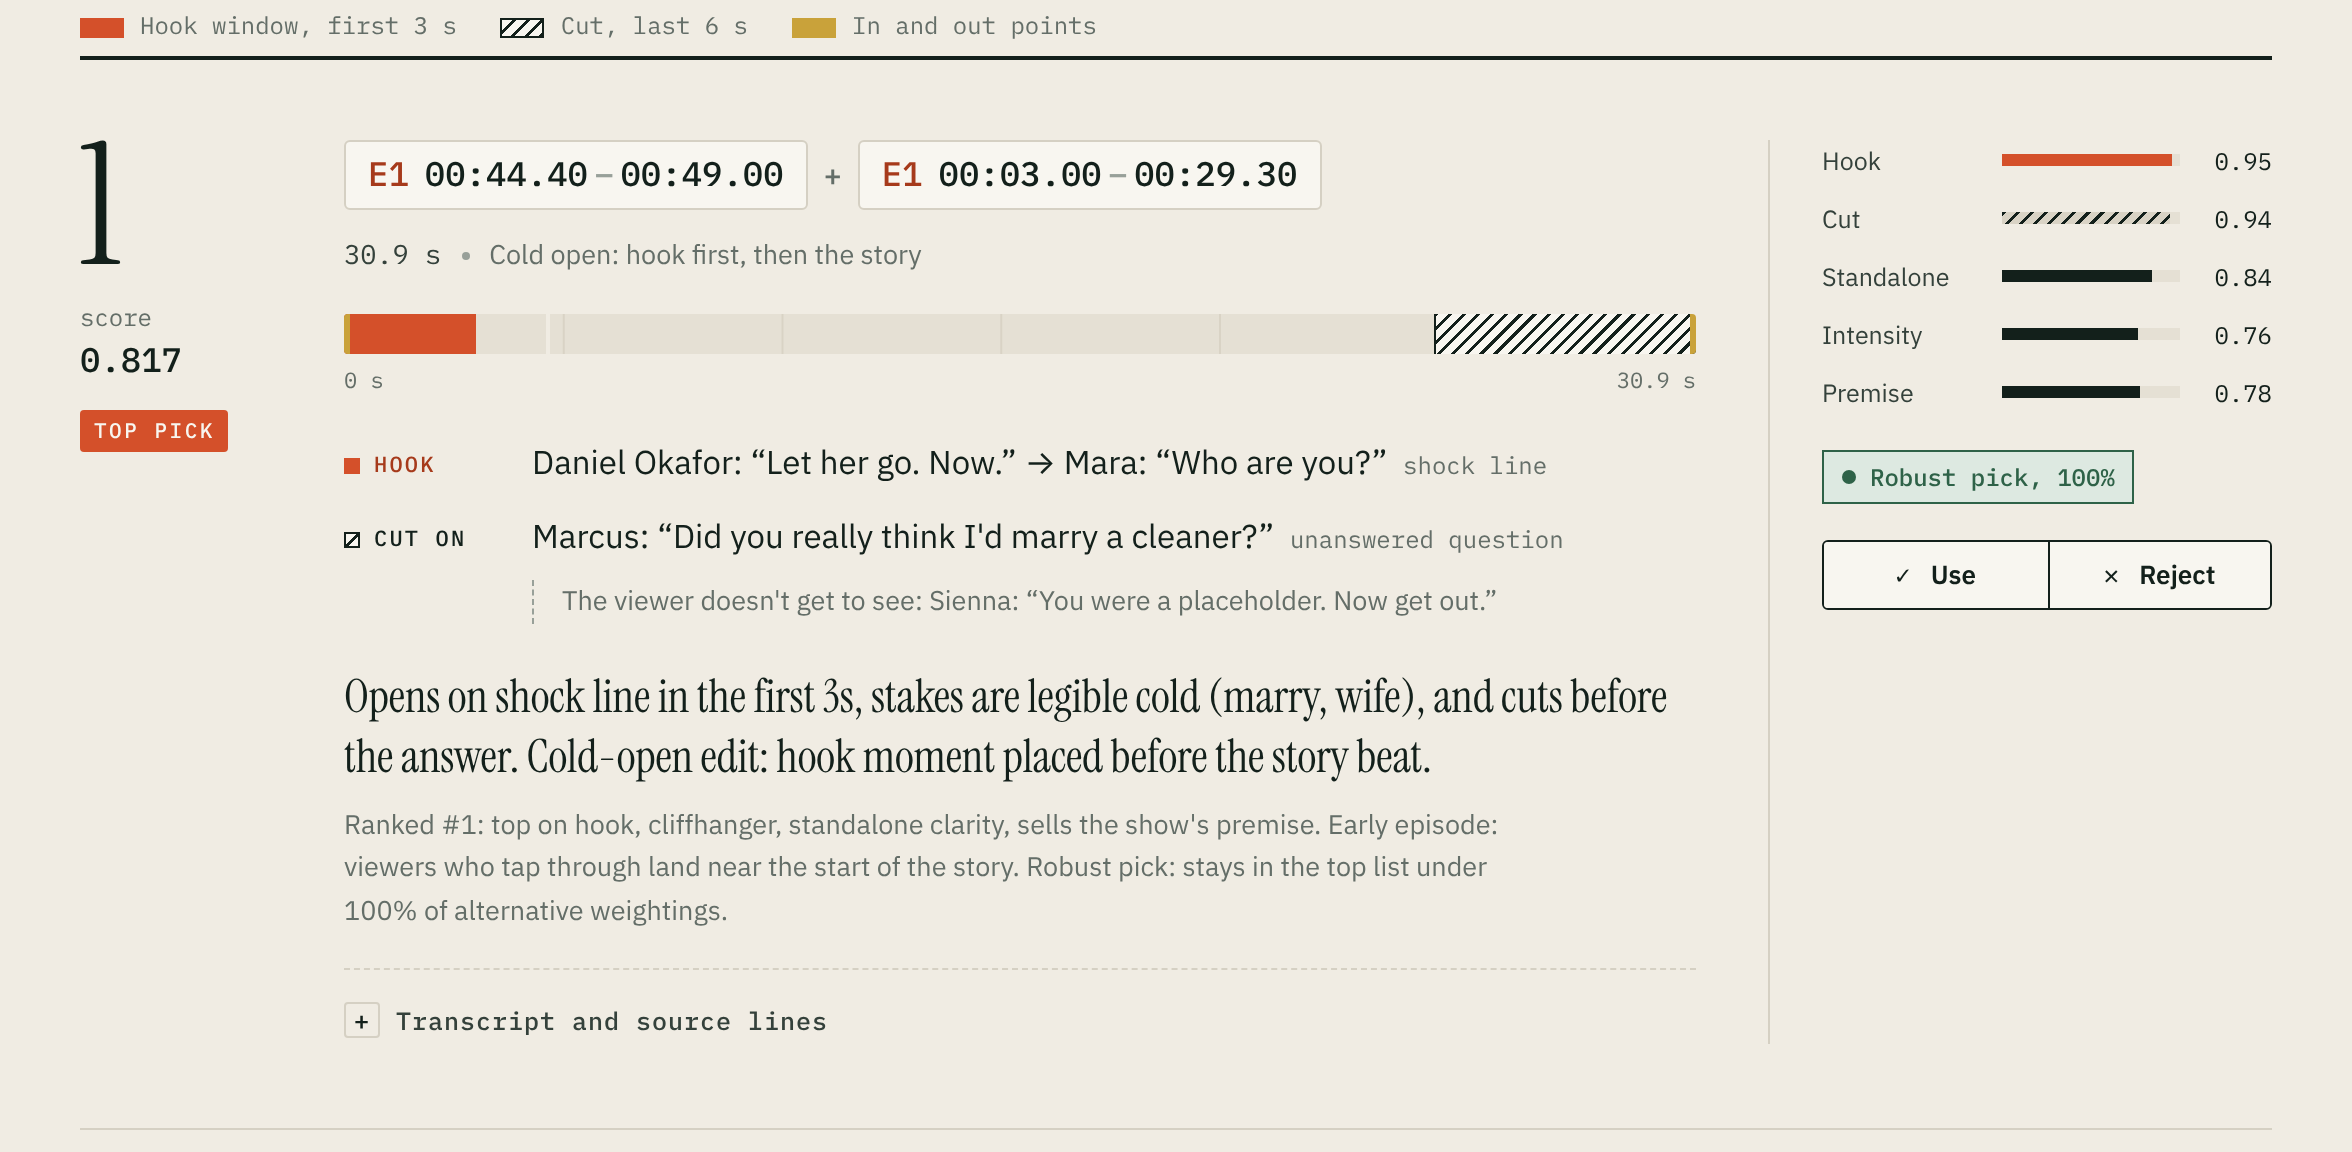
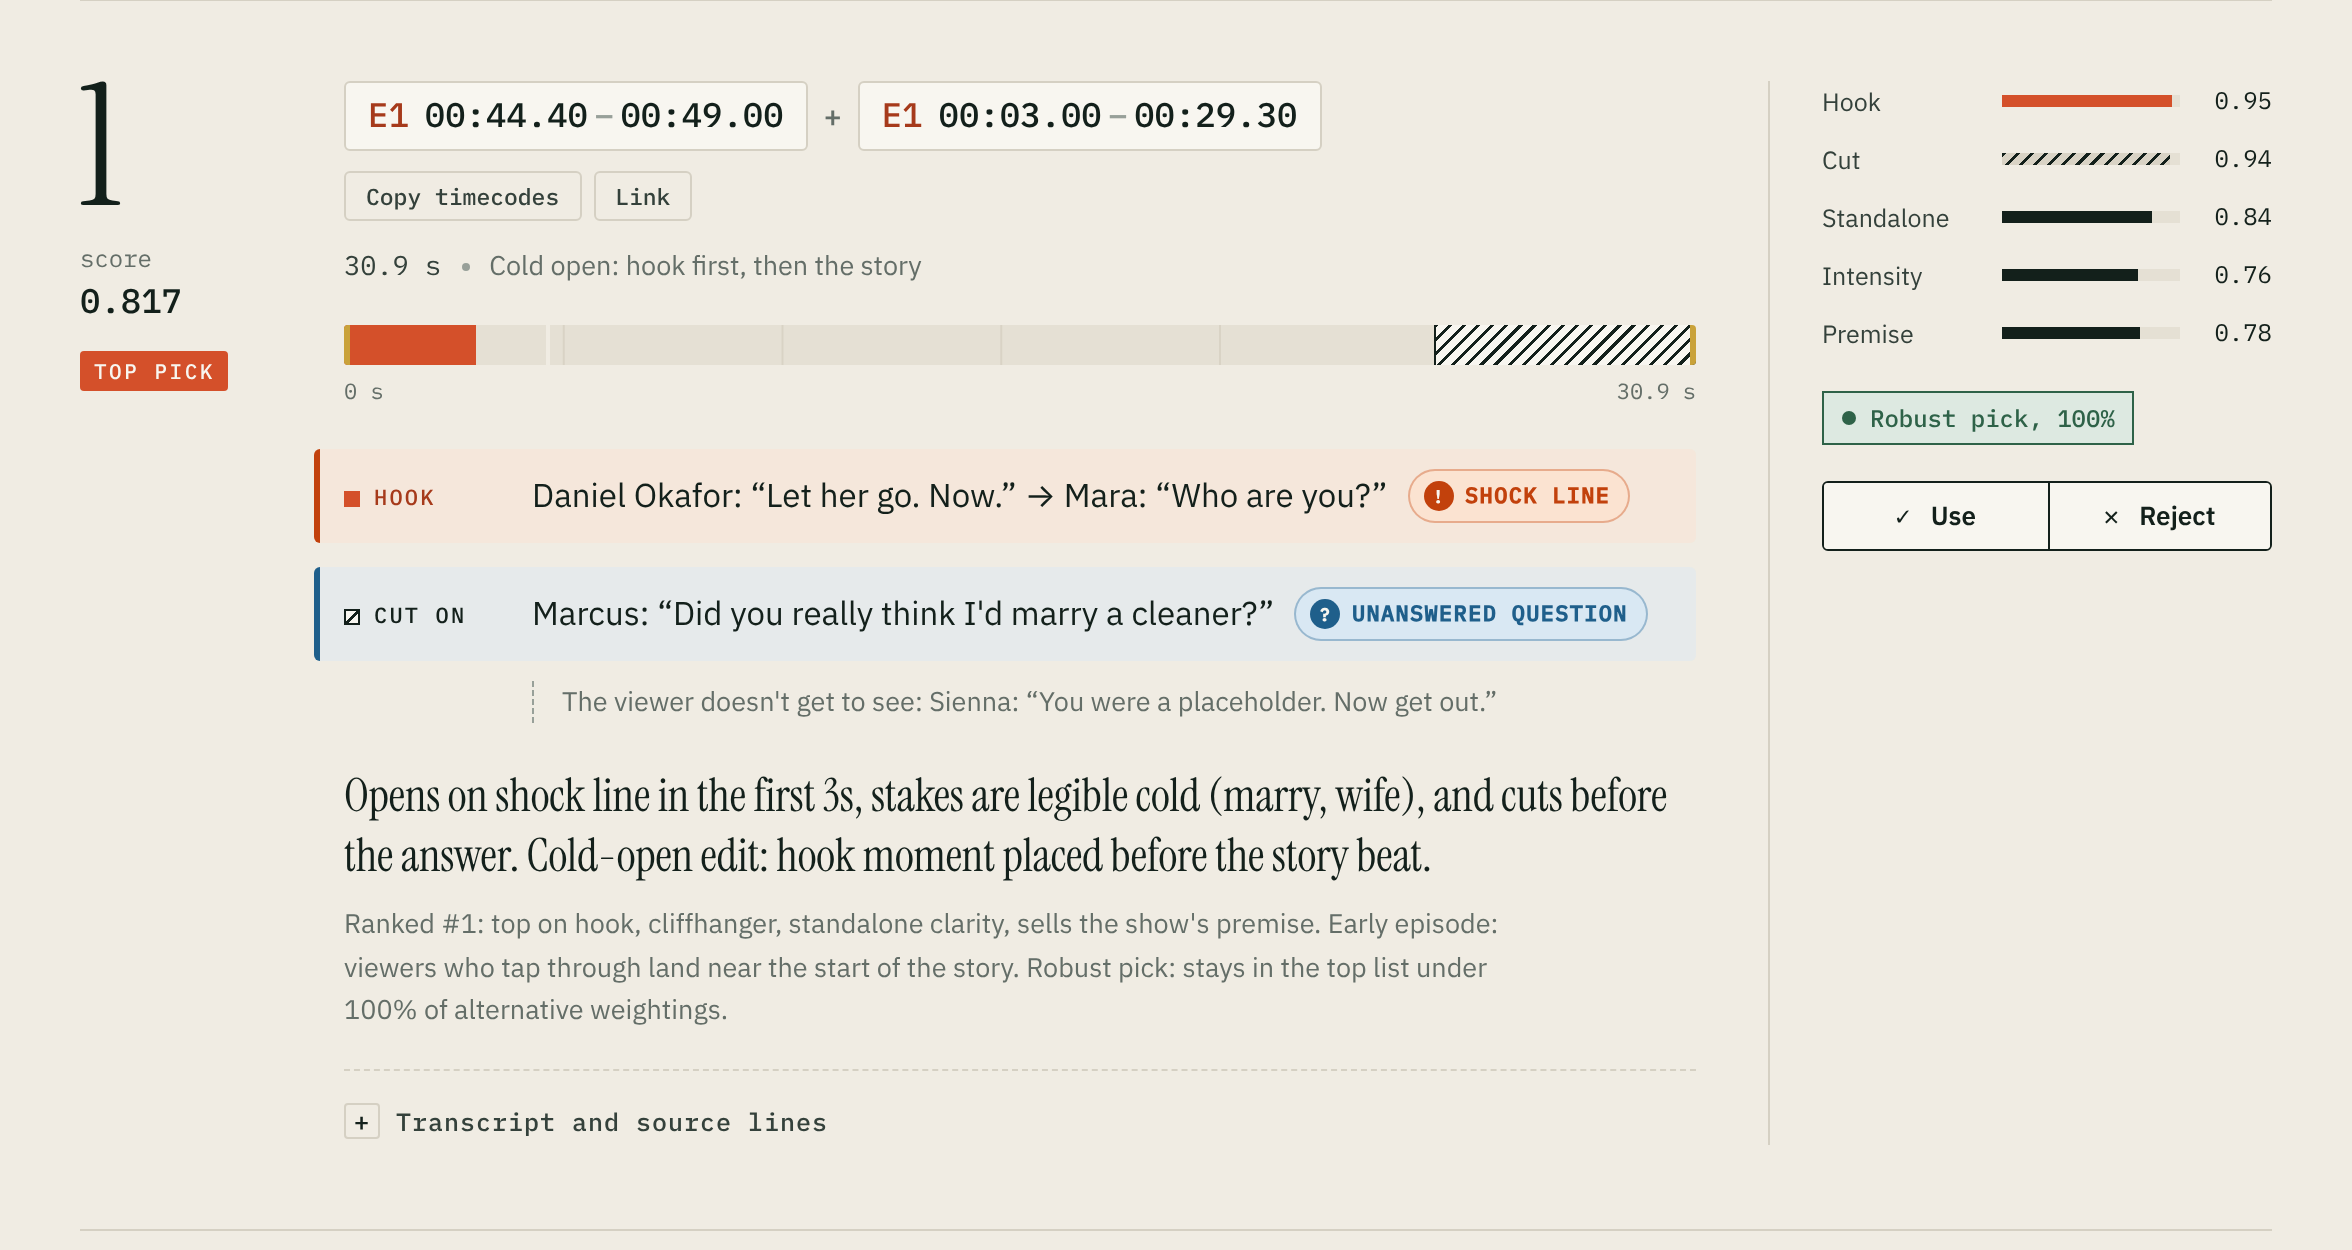
Update screenshots for the current interface

diff --git a/README.md b/README.md
@@ -23,18 +23,22 @@ Exports are available in JSON, CSV, Markdown, and **CMX3600 EDLs** for Premiere 
 
 ## Screenshots
 
-**Results page.** Show summary, exports and the ranked picks.
+**Two sample shows.** Upload your own screenplays, or open either sample: a revenge drama (6 episodes) or a mystery thriller (30 episodes).
+
+![Upload form and the two sample shows](docs/screenshots/samples.png)
+
+**Results page.** Show summary, exports, and a colour-coded mix of how the picks open and end. Tap a colour to filter.
 
 ![Results page for the sample show](docs/screenshots/results.png)
 
-**A single pick.** The strip is drawn to scale: red is the hook window, hatching is the cut, gold marks the in and out points. The lines it was scored on, the beat the viewer doesn't get to see, and the score breakdown sit alongside, with **Use / Reject** buttons for editor feedback.
+**A single pick.** The strip is drawn to scale: red is the hook window, hatching is the cut, gold marks the in and out points. Badges name the type of hook and cut. The line the clip cuts away from, the score breakdown and **Use / Reject** buttons for editor feedback sit alongside, and the timecodes copy in one click.
 
 ![One promo candidate with its clip strip and scores](docs/screenshots/promo-card.png)
 
 <table>
 <tr>
 <td width="38%"><img src="docs/screenshots/results-mobile.png" alt="Results page on a phone"></td>
-<td><b>On a phone.</b> The same page works on small screens, so a pick can be reviewed or exported away from the edit suite.</td>
+<td><b>On a phone.</b> The 30-episode sample on a small screen, so a pick can be reviewed or exported away from the edit suite.</td>
 </tr>
 </table>
 
